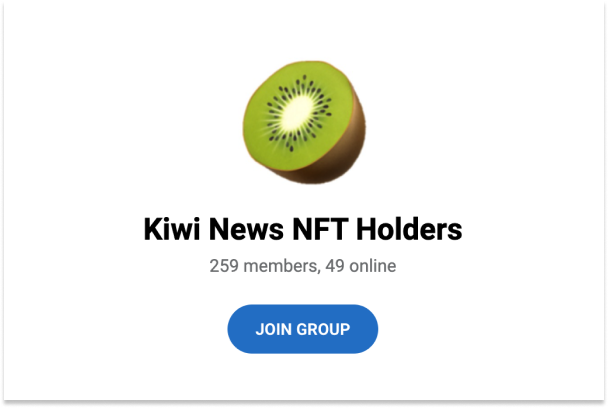
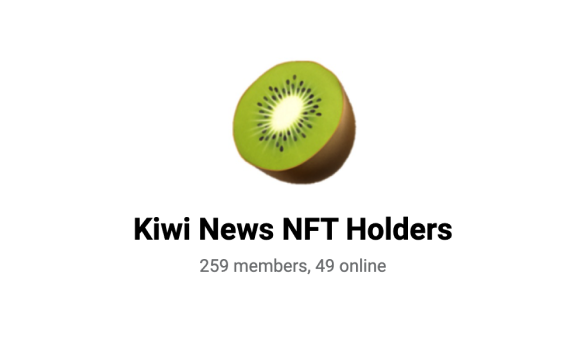
Improve onboarding velocity
- simplify TG invite page
- increase indexing speed
- fix bug that lead to people be forwarded without delegation

Changed region(s): [[0.2154, 0.1449, 0.7692, 0.6957], [0.0, 0.9565, 1.0, 1.0], [0.3385, 0.7246, 0.6769, 0.8696]]

diff --git a/src/web/src/main.jsx b/src/web/src/main.jsx
@@ -506,7 +506,7 @@ async function checkMintStatus(fetchAllowList, fetchDelegations) {
     const delegations = await fetchDelegations();
 
     if (
-      !allowList.includes(address) &&
+      !allowList.includes(address) ||
       !Object.values(delegations).includes(address)
     ) {
       console.log("Waiting for mint to be picked up...");
@@ -515,14 +515,12 @@ async function checkMintStatus(fetchAllowList, fetchDelegations) {
 
     console.log("Mint has been picked up by the node.");
     clearInterval(intervalId);
-    // NOTE: Priorly, we called /demonstration immediately, however, this lead
-    // to problems where the site didn't have the NFT eligibility ready yet.
     if (supportsPasskeys() && (await testPasskeys())) {
-      setTimeout(() => (window.location.href = "/passkeys"), 10000);
+      window.location.href = "/passkeys";
     } else {
-      setTimeout(() => (window.location.href = "/invite"), 10000);
+      window.location.href = "/invite";
     }
-  }, 5000);
+  }, 3000);
 }
 
 async function start() {
